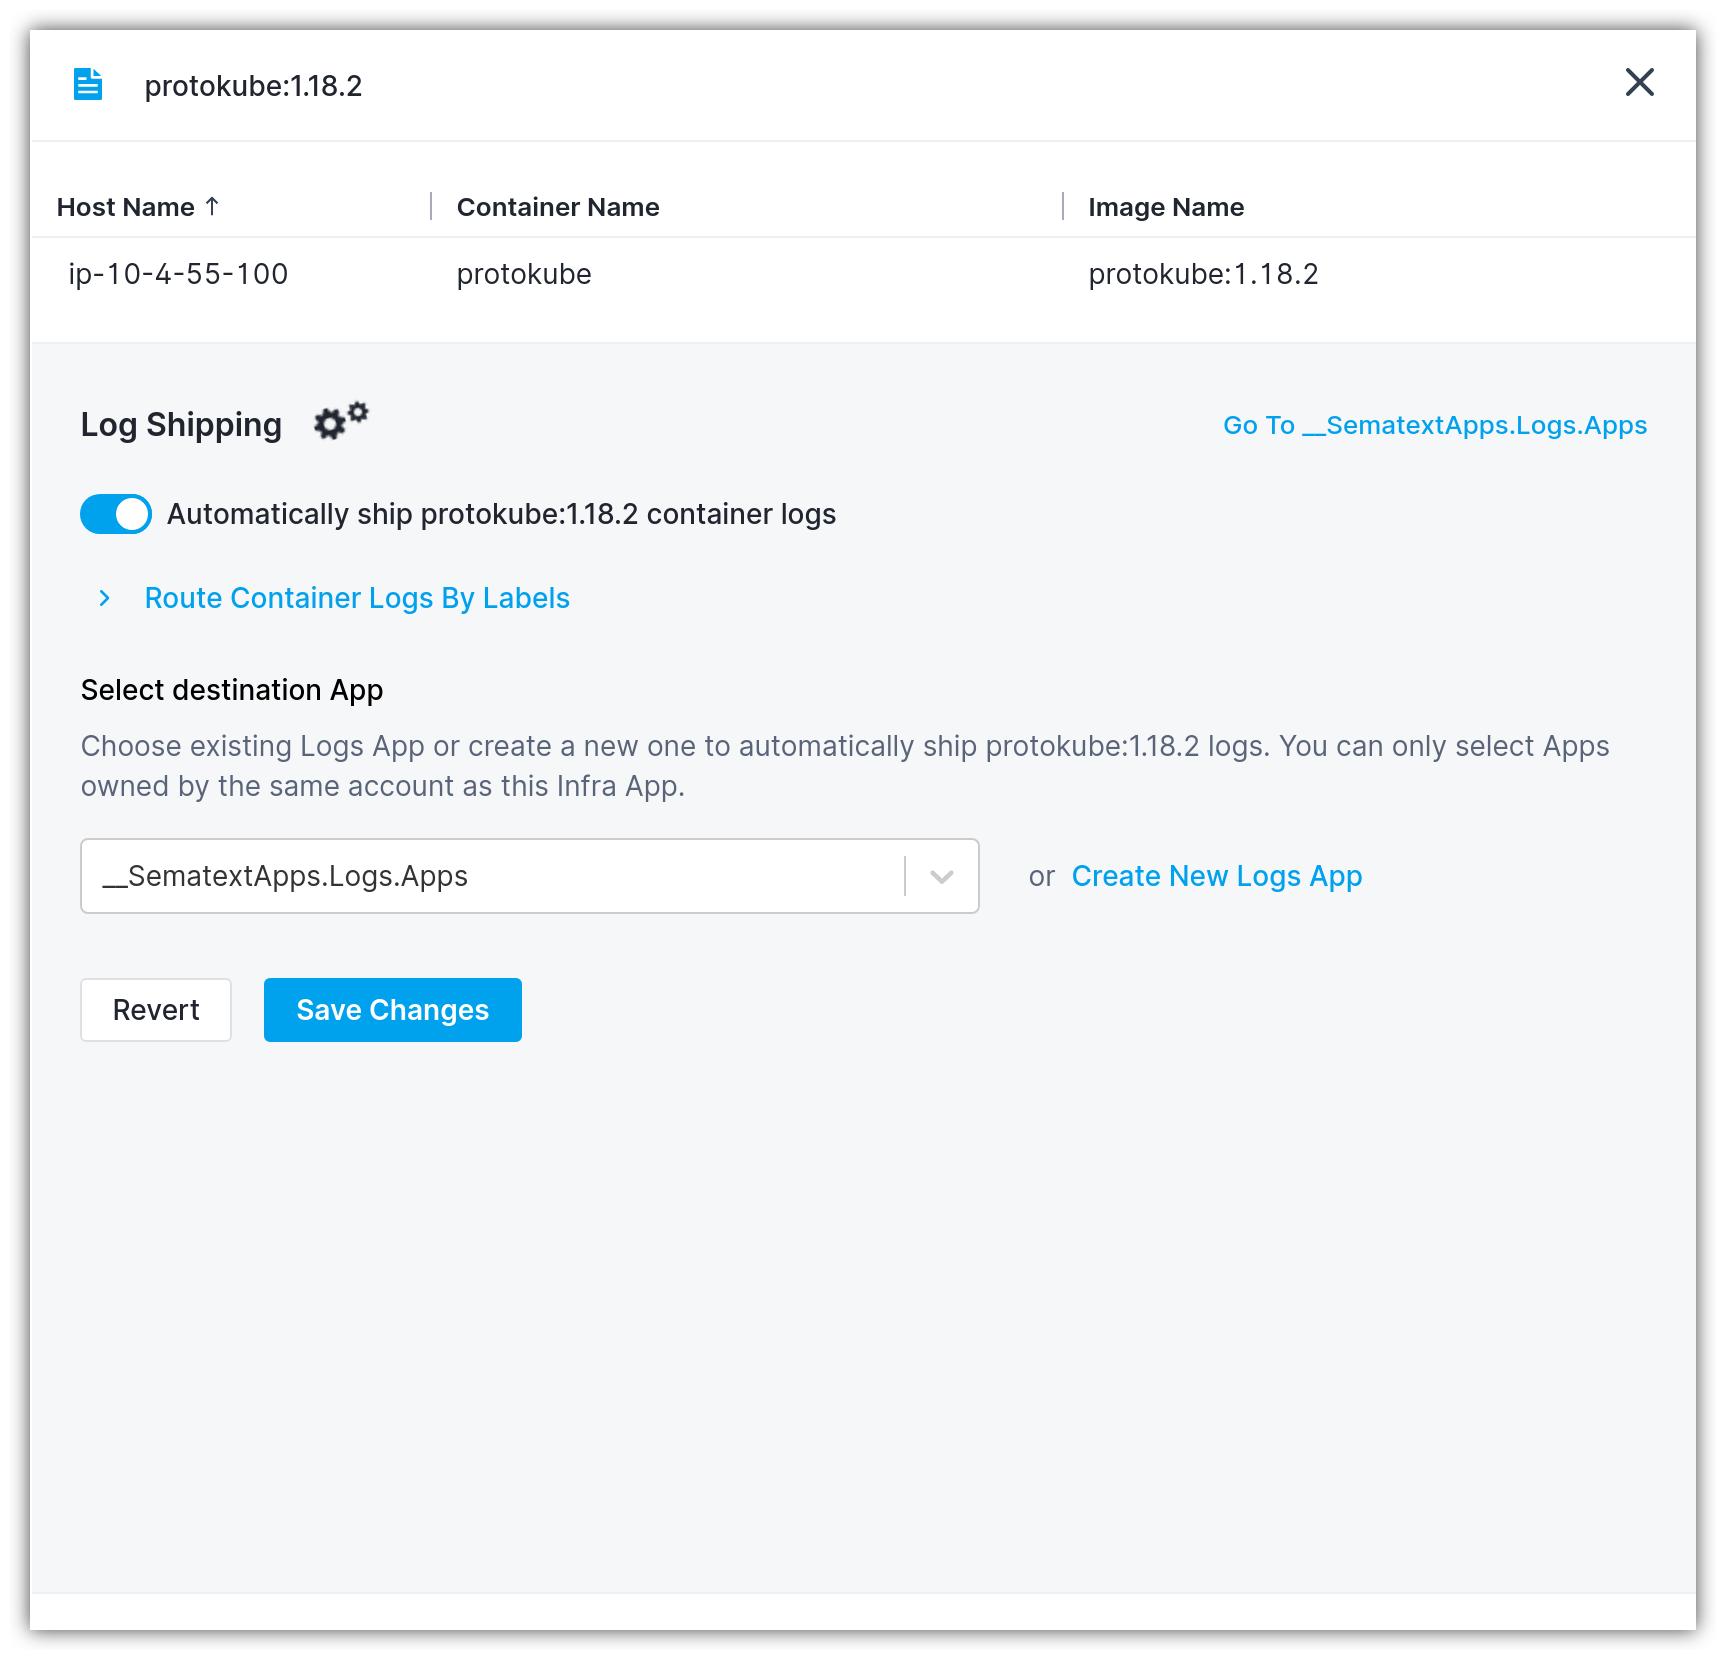
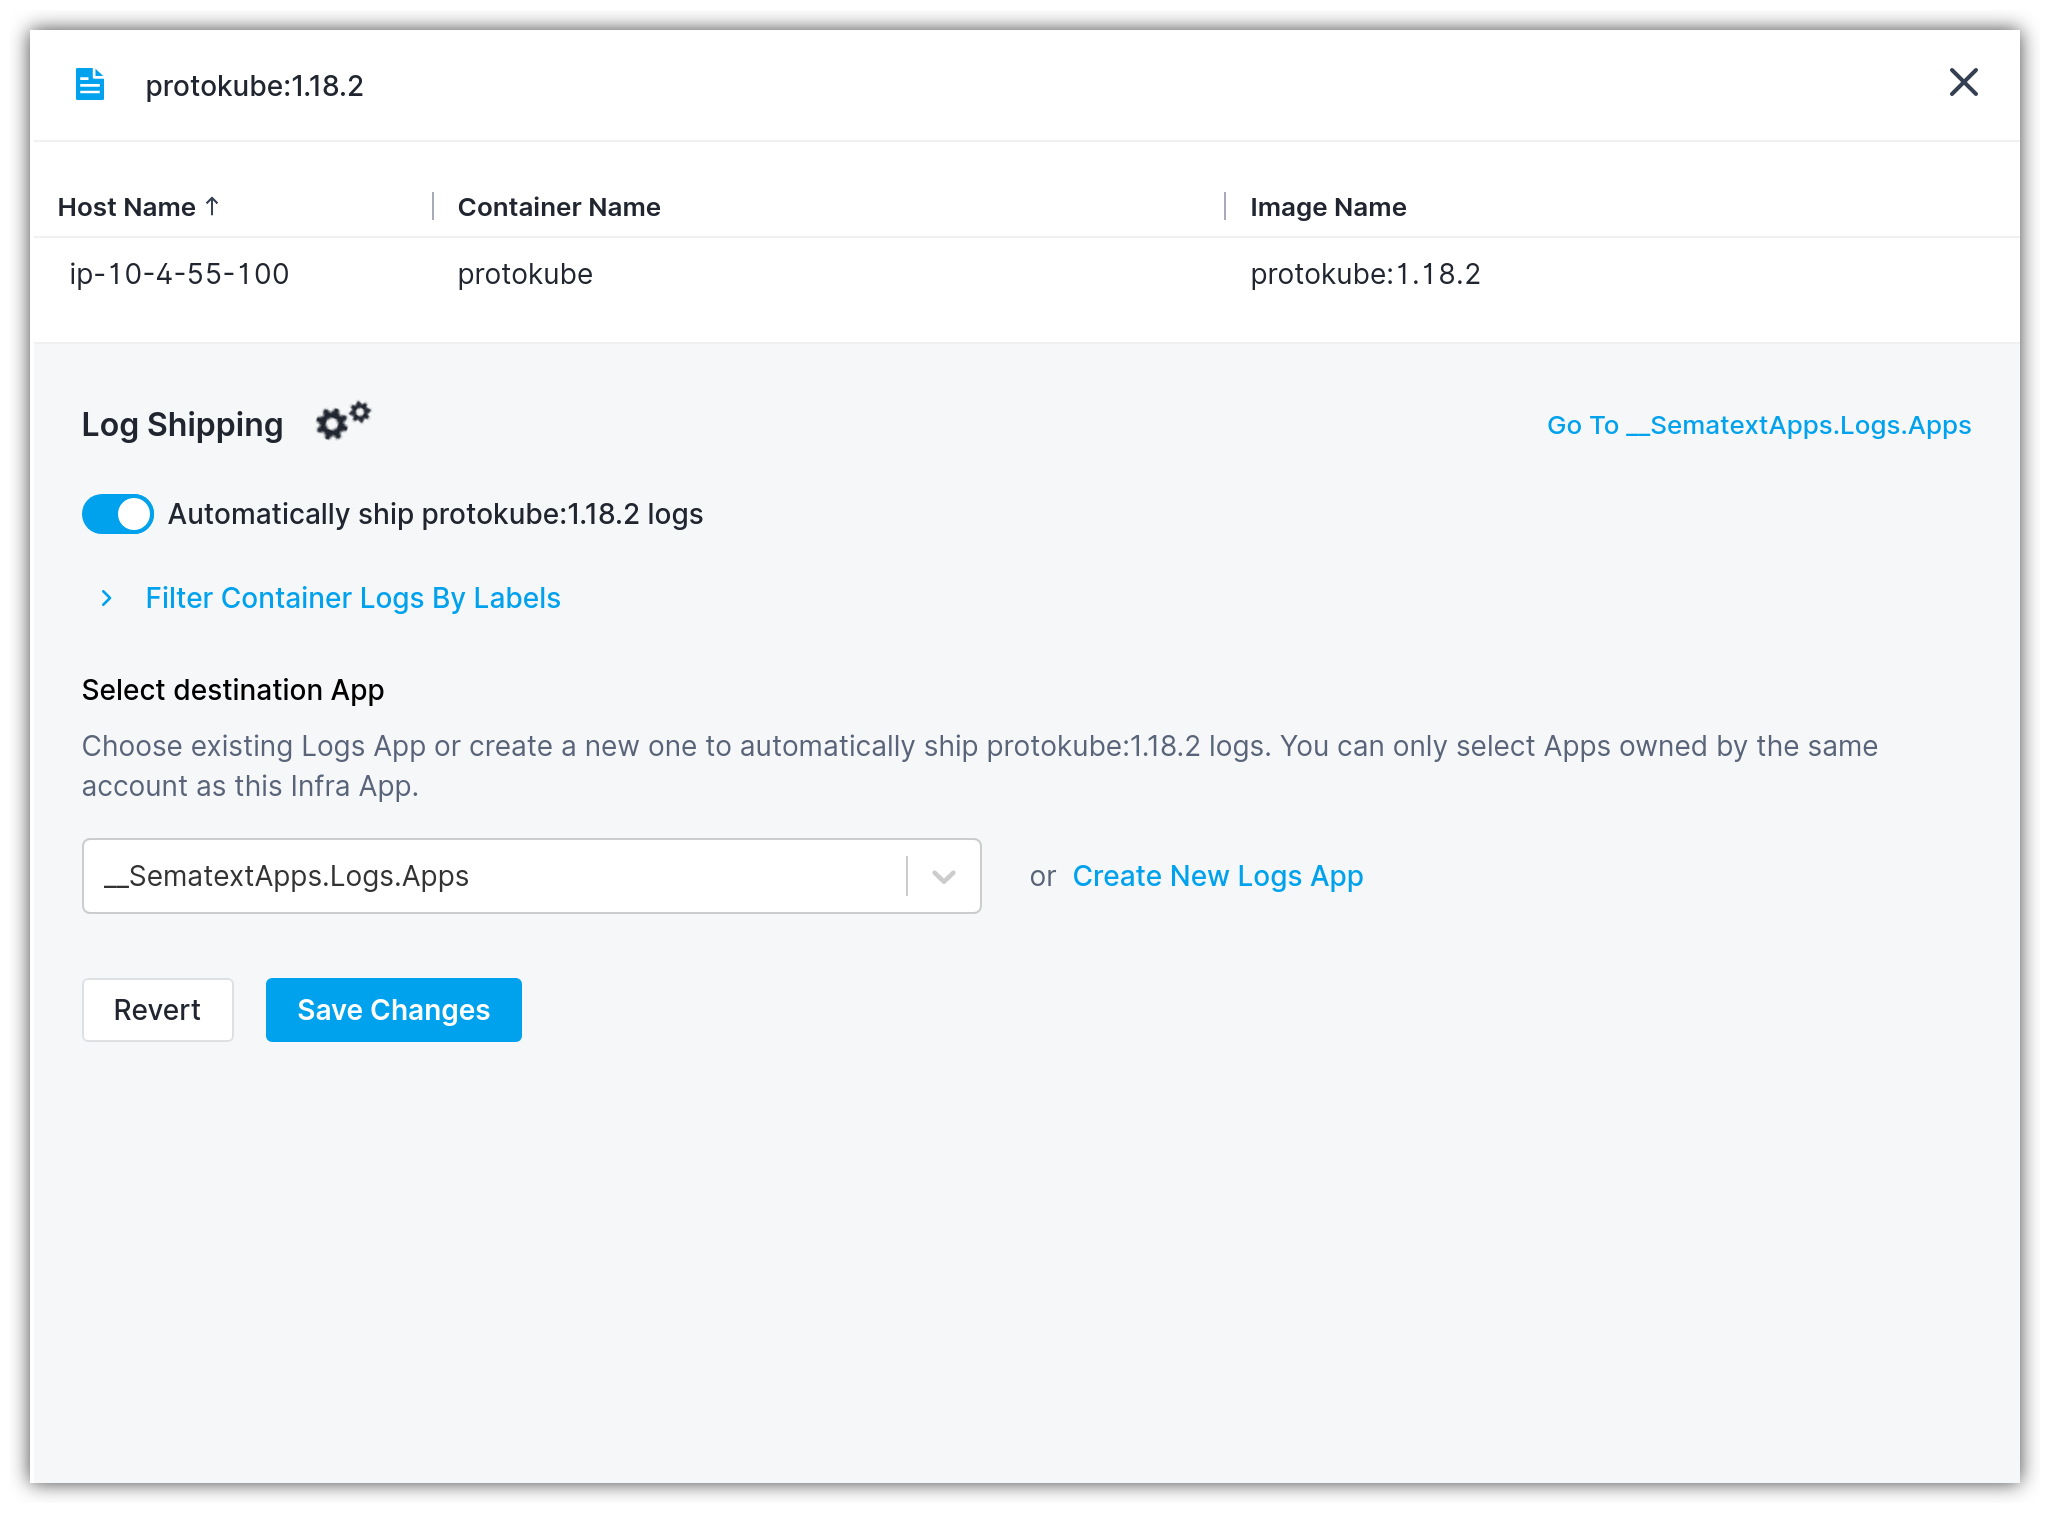
SC-9922: new screenshots + adjustments

diff --git a/docs/logs/discovery/tailing-containers.md b/docs/logs/discovery/tailing-containers.md
@@ -15,8 +15,10 @@ This will open the following flyout panel where you can configure container log 
 
 Log shipping is configured on a per container image basis. This implies that any freshly created containers that match this image name will automatically have their logs shipped to Sematext Cloud.
 
-## Routing logs by container labels
+## Filtering container logs by labels
 
-If you want to restrict the scope of log collection, it is possible to route the container logs by labels. You can either select a label from the list of already defined labels in this container or write a custom label. Labels can contain a key/value pair, or just a key.
+If you want to restrict the scope of log collection, it is possible to filter the container logs by labels. You can either select a label from the list of already defined labels in this container or write a custom label. Labels can contain a key/value pair, or just a key.
 
-![Route Container Logs](images/route-by-container-labels.png)
+![Route Container Logs](images/filter-container-logs-by-labels.png)
+
+Observability should not be an afterthought. You can prepare container-based log filtering and routing rules even if you are not using those labels with your containers yet.  For example, if you label different jobs with different labels, you can ensure their logs will go to the appropriate destination from the very beginning without being lost or getting mixed up with other logs.
